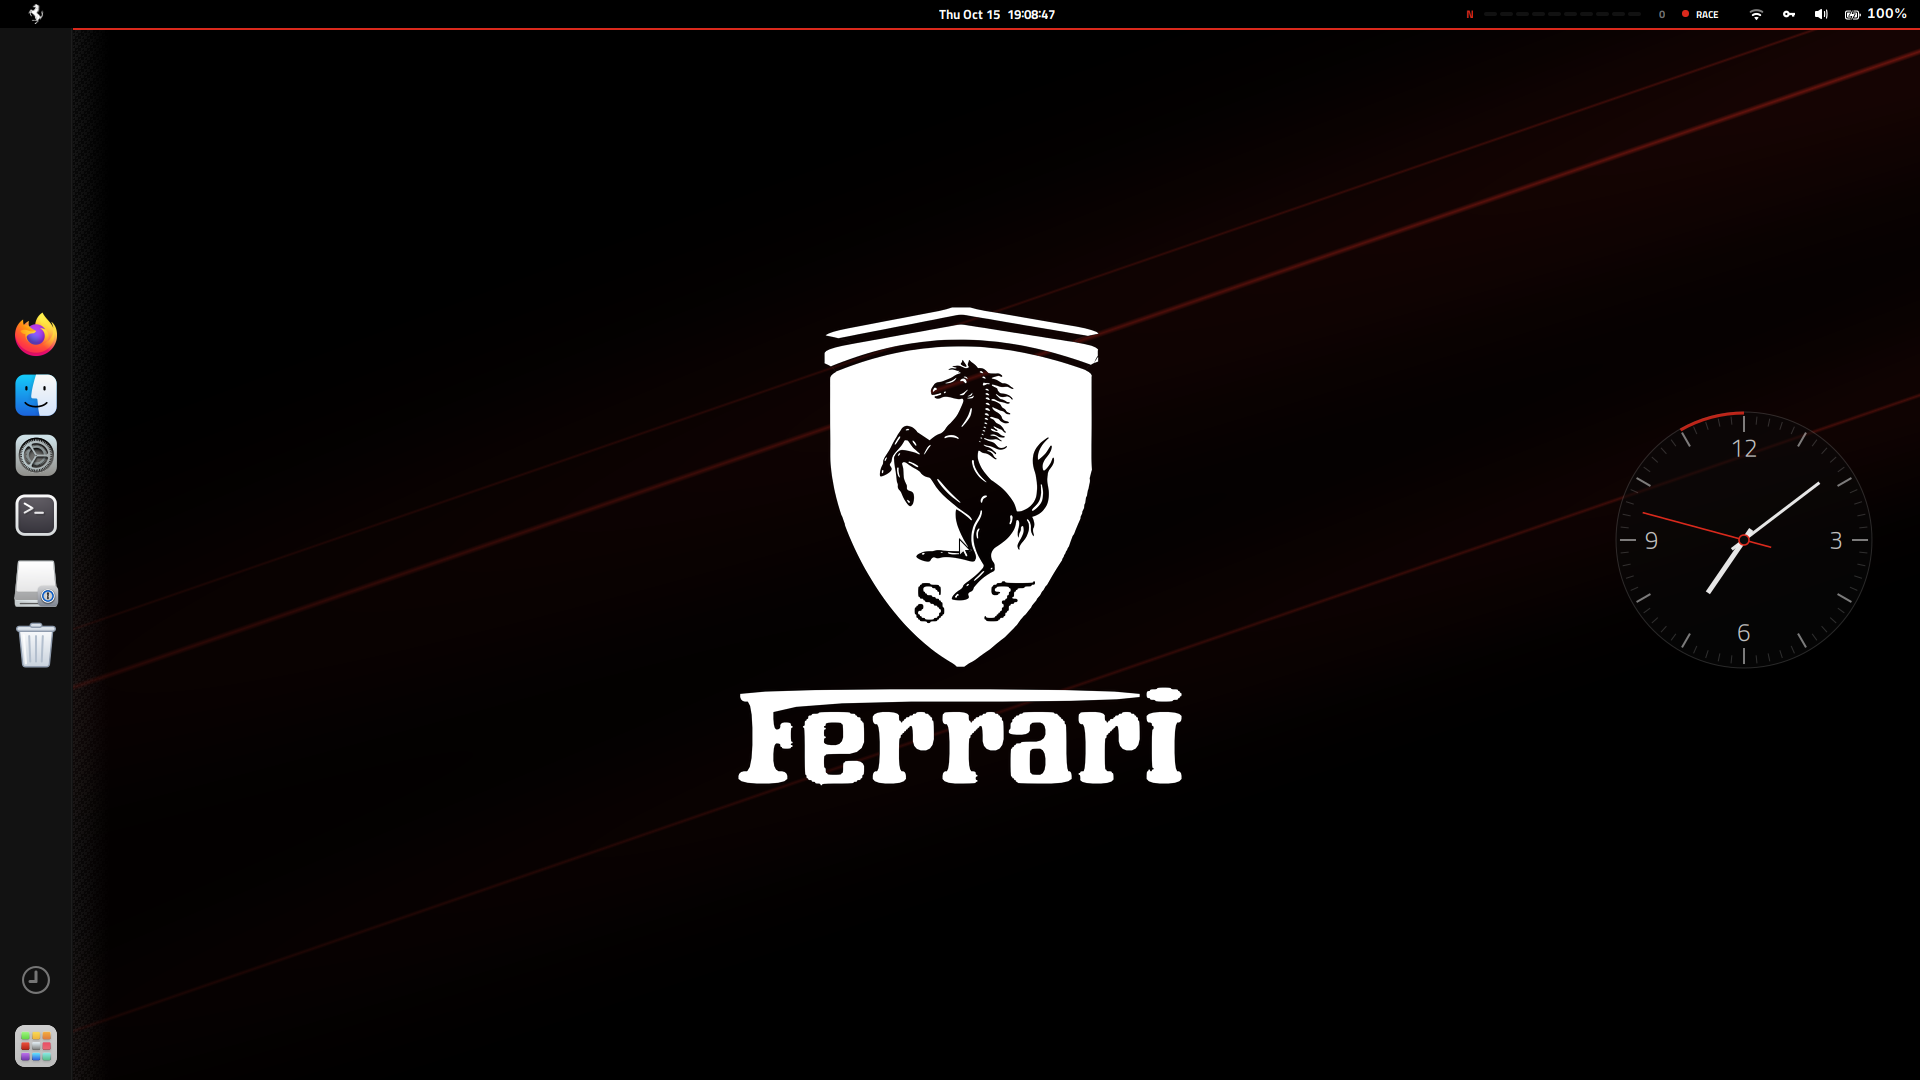
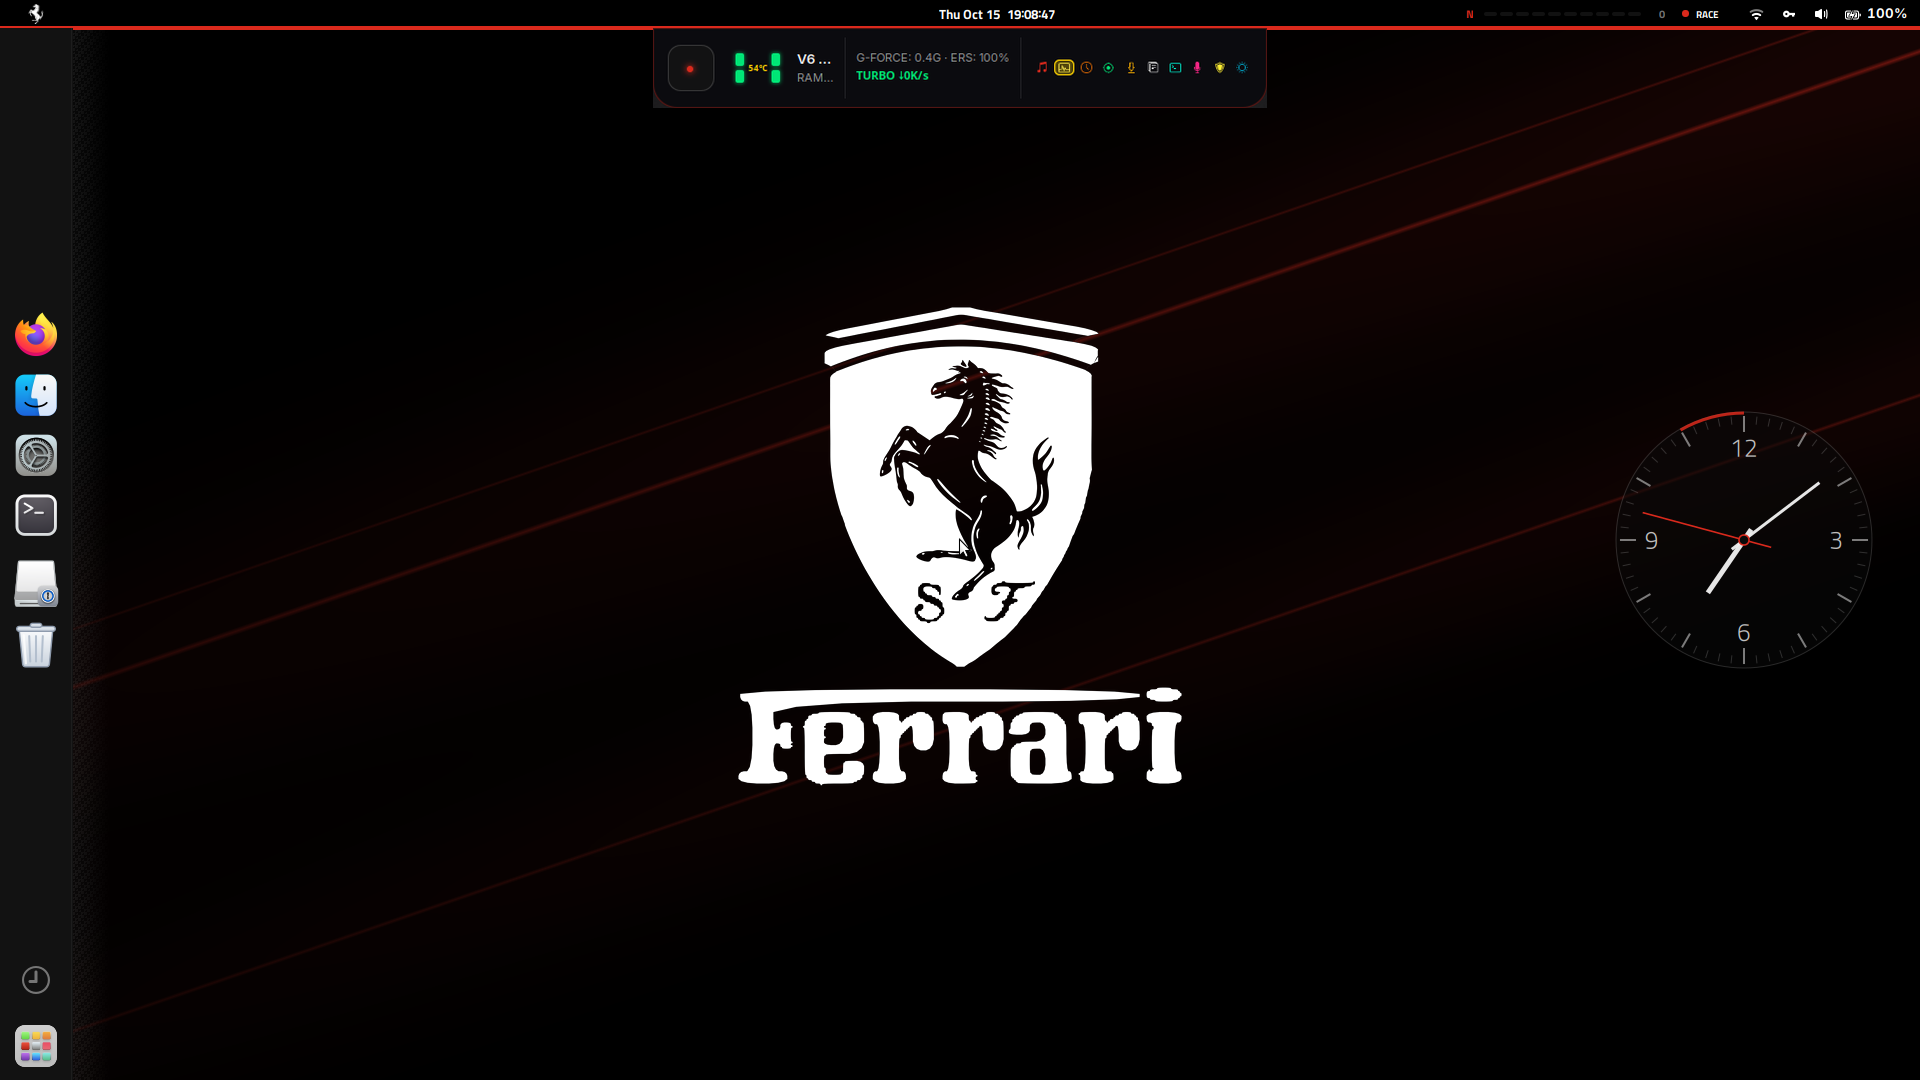
docs(readme): perbarui screenshot dan dokumentasi f1 dynamic island

Changed region(s): [[0.3438, 0.0, 0.6562, 0.0917]]

diff --git a/README.md b/README.md
@@ -11,17 +11,19 @@ dependensi pihak ketiga. Bukan fork besar tema ikon/GTK.
 
 ## Tampilan
 
-![Desktop noir: panel ramping dengan cluster rev-light dan RACE di kanan atas, dock full-height di kiri, jam analog di desktop](docs/gambar/desktop.png)
+![Desktop noir: panel ramping dengan cluster rev-light dan RACE di kanan atas, Horizon Telemetry Rail, Dynamic Island F1 Cockpit, dock full-height di kiri, jam analog di desktop](docs/gambar/desktop.png)
+
+| 🏎 Dynamic Island: Media & F1 Rev-Light Sync | 🛞 F1 Telemetry & 4-Tire Thermal Heatmap |
+|---|---|
+| ![Dynamic Island Media Card dengan lirik tersinkronisasi dan DRS OPEN](docs/gambar/island-media.png) | ![Dynamic Island Telemetry dengan 4-Tire Heatmap, G-Force Radar, dan Manettino](docs/gambar/island-telemetry.png) |
 
 | Quick Settings: kartu berbingkai rosso, baterai dan mode daya | Rail sub-panel di sisi dock (`Super+R`) |
 |---|---|
 | ![Quick Settings noir dengan aksen Rosso Corsa](docs/gambar/quick-settings.png) | ![Rail noir berisi aplikasi terkini dan folder tersering](docs/gambar/rail.png) |
 
-Ketiga gambar dirender pada 1920x1080 dari rig Xephyr (:9) dengan salinan dconf
-tersendiri, jadi sesi kerja tidak ikut tersentuh. Nama jaringan Wi-Fi/VPN dan
-isi riwayat pada rail disensor — datanya berasal dari mesin pengembang. Layar
-ambient `noir-clock` belum ditampilkan karena idle monitor X11 di dalam
-Xephyr melapor hitung-mundur, sehingga veil tidak pernah naik di rig.
+Seluruh gambar dirender pada 1920x1080 dari rig Xephyr dengan salinan dconf
+tersendiri, sehingga sesi kerja pengembang tidak ikut tersentuh dan data pribadi
+bersih dari tangkapan layar. Nama jaringan Wi-Fi/VPN dan isi riwayat pada rail disensor.
 
 ```
 ferrari-ubuntu/
@@ -154,12 +156,22 @@ wpctl status | grep -A2 canberra                    # stream [active]
   layar ambient noir-clock tidak boleh naik.
 - **Dock**: kiri, full-height, fixed, ikon 48 px, indikator `DASHES`, dasar
   `#121212` dengan blur; mount + trash tampil sebagai seksi pemisah.
-- **Island** (noir-island): pill kecil click-through di tengah bawah panel;
-  melebar jadi kartu now-playing (artwork, judul/artis/album, progres, prev /
-  play-pause / next) begitu ada `org.mpris.MediaPlayer2.*` berstatus Playing,
-  dan didahulukan kartu notifikasi (ikon sumber, body, badge `+N`, tombol
-  Tutup/Buka yang bisa diklik). Prioritas NOTIF > MEDIA > IDLE; tidak naik
-  selama jendela fullscreen, kecuali urgensi critical.
+- **Island** (noir-island): pill cerdas di tengah bawah panel terhubung dengan
+  **Horizon Telemetry Rail** (garis telemetri merah dengan denyut audio-reaktif).
+  Mendukung 10 mode Manettino interaktif (Media, Telemetry, Chrono Timer, G-Force Radar,
+  Drop Zone, Clipboard, Command Terminal, Team Radio, Engine Ignition, Weather):
+  - **DRS Aero Flap Morph & SFX**: transisi pembukaan card memicu audio pneumatik
+    F1 (`radio-lights.oga`) dan status badge `DRS OPEN` / `DRS OFF`.
+  - **4-Tire Pirelli Heatmap**: 4 ban balap (FL, FR, RL, RR) membaca suhu CPU termal riil
+    dari `/sys/class/thermal` dengan status warna Pirelli (Cold Cyan `<48°C`,
+    Optimal Green `48–75°C`, Blistering Red `>75°C`).
+  - **13,000 RPM Shift-Light Overdrive**: 10 Rev-LEDs beralih ke strobo simultan
+    racing violet `#7c4dff` dan badge `SHIFT 13K` saat CPU $>85\%$.
+  - **Team Radio HUD**: notifikasi kritis memicu banner `[📻 TEAM RADIO: RACE ENGINEER]`,
+    audio statis radio balap (`radio-box.oga`), serta tombol interaktif `BOX BOX`.
+  - **Virtual Manettino Scroll**: gestur scroll mouse di atas rail atau dock langsung
+    mengganti mode berkendara secara instan disertai tactile mechanical click.
+  - Prioritas tampilan: NOTIF > MEDIA > AMBIENT (Agenda / Cuaca / Jam) > IDLE.
 - **Tipografi**: Inter 10 untuk UI, Titillium Web untuk angka (cluster, jam),
   Hack untuk monospace; weekday + detik di jam panel; persen baterai tampil.
 - **Jendela**: layout tombol `close,minimize,maximize:` macOS, Super+Tab untuk
